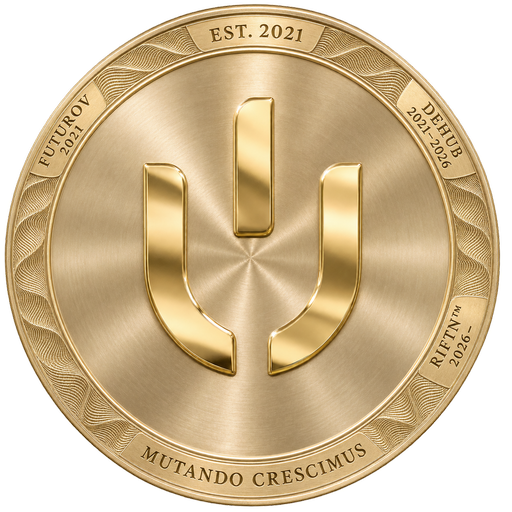
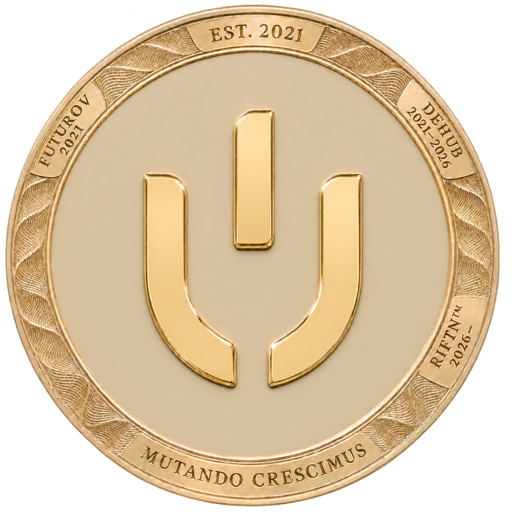
Smooth the gold coin face (#4185)

diff --git a/src/pages/app/DexPage.tsx b/src/pages/app/DexPage.tsx
@@ -3,6 +3,7 @@ import { DHB_SALES_PAUSED } from '@/lib/dhb-sales';
 import { TokenComingSoonPage } from '@/components/app/token-launch/TokenComingSoonPage';
 import { useSurfaceDraft } from '@/hooks/use-surface-draft';
 import { tokenLabel } from '@/lib/token-label';
+import { DhbCoin } from '@/components/app/DhbAmount';
 import { dexActionError } from '@/lib/dex/action-error';
 import { minuteCache, parseDehubMarket, isDehubPool, CANDLE_INTERVALS, type SharedMarket, type CandleInterval } from '@/lib/dex/live-market';
 import { useCallback, useEffect, useLayoutEffect, useMemo, useRef, useState, type CSSProperties } from 'react';
@@ -443,7 +444,7 @@ function DexPageMarket() {
           <div className="dex-available"><span>{t('dex.available')}</span><span>{checking ? t('dex.checking') : funded ? `${formatSize(Number(balance))}${fundingAsset && fundingAsset.symbol !== 'USDC' ? ` · ${fundingAsset.symbol}` : ''}` : `${formatSize(Number(balance))} ${tokenLabel(fundingToken)}`}</span></div>
           <div className="dex-fractions">{[25, 50, 75, 100].map((percent) => <button key={percent} type="button" disabled={checking || !chainId} onClick={() => { setAmount(balanceFraction(balance, percent, decimals)); setReview(null); setFundingQuote(null); }}>{percent === 100 ? t('dex.max') : `${percent}%`}</button>)}</div>
           <details className="dex-advanced"><summary>{t('dex.adjustRange')}</summary><p className="dex-help">{t('dex.rangeHint')}</p>{[{ label: t('dex.lowerPrice'), value: minPrice, set: setMinPrice }, { label: t('dex.upperPrice'), value: maxPrice, set: setMaxPrice }].map((field) => <label className="dex-field" key={field.label}>{field.label}<div className="dex-input"><input aria-label={field.label} inputMode="decimal" value={field.value} onChange={(e) => { field.set(decimalInput(e.target.value)); priceTouched.current = true; setReview(null); }} /><span>USD</span></div></label>)}</details>
-          <dl><dt>{t('dex.estimated')}</dt><dd>{formatSize(estimate)} {side === 'buy' ? tokenLabel() : 'USDC'}</dd><dt>{t('dex.network')}</dt><dd>{venueName}</dd><dt>{t('dex.lpFeeLabel')}</dt><dd>0%</dd></dl>
+          <dl><dt>{t('dex.estimated')}</dt><dd>{formatSize(estimate)} {side === 'buy' ? <DhbCoin /> : 'USDC'}</dd><dt>{t('dex.network')}</dt><dd>{venueName}</dd><dt>{t('dex.lpFeeLabel')}</dt><dd>0%</dd></dl>
         </fieldset>
         {side === 'buy' && bnbHeld && !pending && <div role="status" className="dex-alert dex-warning">{t('dex.convertBnbNote')}<button type="button" disabled={busy} onClick={() => setConvertOpen(true)}>{t('dex.convertBnb')}</button></div>}
         {balanceError && <div className="dex-alert">{balanceError}<button onClick={() => setBalanceRevision((n) => n + 1)} disabled={busy}>{t('dex.retry')}</button></div>}
@@ -456,7 +457,7 @@ function DexPageMarket() {
       </section>
     </div>
     <section className="dex-positions"><div className="dex-panel-head"><div role="tablist" aria-label={t('dex.positionOwnership')} className="dex-tabs"><button role="tab" aria-selected={!mine} onClick={() => { setMine(false); setPage(0); }}>{t('dex.allPositions')} <span className="dex-muted">{venuePositions.length}</span></button><button role="tab" aria-selected={mine} onClick={() => { setMine(true); setPage(0); }}>{t('dex.myPositions')}</button></div><span className="dex-muted">{venueName}</span></div>
-      {!shown.length ? <div className="dex-empty">{loading ? t('dex.verifying') : mine ? t('dex.noMyPositions') : t('dex.noPositions', { chain: venueName })}</div> : <div className="dex-table-scroll"><table className="dex-table"><thead><tr><th>{t('dex.position')}</th><th>{t('dex.priceRange')}</th><th>{t('dex.currentHoldings')}</th><th>{t('dex.state')}</th><th>{t('dex.networkColumn')}</th><th /></tr></thead><tbody>{visiblePositions.map((item) => { const fill = fillFraction(item) * 100; return <tr key={`${item.chain_id}:${item.token_id}`}><td className={item.side === 'buy' ? 'dex-buy' : 'dex-sell'}>{t(item.side === 'buy' ? 'dex.buy' : 'dex.sell')}<small>#{item.token_id}</small></td><td>{formatPrice(item.minPrice)} – {formatPrice(item.maxPrice)}<small>{t('dex.lpFeeValue', { fee: item.poolFee / 10000 })}</small></td><td>{formatSize(item.amountDhb)} {tokenLabel()}<small>{formatSize(item.amountUsdc)} USDC</small></td><td>{item.status === 'Filled' ? t('dex.ready') : item.status === 'In range' ? <>{t('dex.converting')} <span className="dex-muted">{fill < 1 ? '<1' : Math.round(fill)}%</span><i className="dex-fill" style={{ '--fill': `${fill}%` } as CSSProperties} /></> : t('dex.waiting')}<small>{item.owner.slice(0, 6)}…{item.owner.slice(-4)}</small></td><td>{DEX_CHAINS[item.chain_id as DexChainId].name}</td><td>{walletAddress?.toLowerCase() === item.owner.toLowerCase() ? <button disabled={busy || !!withdrawing} onClick={() => void handleWithdraw(item)}>{withdrawing === `${item.chain_id}:${item.token_id}` ? t('dex.withdrawing') : t('dex.withdraw')}</button> : <a href={`${DEX_CHAINS[item.chain_id as DexChainId].explorer}/tx/${item.mint_tx_hash}`} target="_blank" rel="noreferrer" aria-label={t('dex.viewPosition', { id: item.token_id })}><ExternalLink size={14} /></a>}</td></tr>; })}</tbody></table></div>}
+      {!shown.length ? <div className="dex-empty">{loading ? t('dex.verifying') : mine ? t('dex.noMyPositions') : t('dex.noPositions', { chain: venueName })}</div> : <div className="dex-table-scroll"><table className="dex-table"><thead><tr><th>{t('dex.position')}</th><th>{t('dex.priceRange')}</th><th>{t('dex.currentHoldings')}</th><th>{t('dex.state')}</th><th>{t('dex.networkColumn')}</th><th /></tr></thead><tbody>{visiblePositions.map((item) => { const fill = fillFraction(item) * 100; return <tr key={`${item.chain_id}:${item.token_id}`}><td className={item.side === 'buy' ? 'dex-buy' : 'dex-sell'}>{t(item.side === 'buy' ? 'dex.buy' : 'dex.sell')}<small>#{item.token_id}</small></td><td>{formatPrice(item.minPrice)} – {formatPrice(item.maxPrice)}<small>{t('dex.lpFeeValue', { fee: item.poolFee / 10000 })}</small></td><td>{formatSize(item.amountDhb)} <DhbCoin /><small>{formatSize(item.amountUsdc)} USDC</small></td><td>{item.status === 'Filled' ? t('dex.ready') : item.status === 'In range' ? <>{t('dex.converting')} <span className="dex-muted">{fill < 1 ? '<1' : Math.round(fill)}%</span><i className="dex-fill" style={{ '--fill': `${fill}%` } as CSSProperties} /></> : t('dex.waiting')}<small>{item.owner.slice(0, 6)}…{item.owner.slice(-4)}</small></td><td>{DEX_CHAINS[item.chain_id as DexChainId].name}</td><td>{walletAddress?.toLowerCase() === item.owner.toLowerCase() ? <button disabled={busy || !!withdrawing} onClick={() => void handleWithdraw(item)}>{withdrawing === `${item.chain_id}:${item.token_id}` ? t('dex.withdrawing') : t('dex.withdraw')}</button> : <a href={`${DEX_CHAINS[item.chain_id as DexChainId].explorer}/tx/${item.mint_tx_hash}`} target="_blank" rel="noreferrer" aria-label={t('dex.viewPosition', { id: item.token_id })}><ExternalLink size={14} /></a>}</td></tr>; })}</tbody></table></div>}
       {shown.length > PAGE_SIZE && <div className="dex-pagination"><button disabled={!page} onClick={() => setPage((n) => n - 1)}>{t('dex.previous')}</button><span>{page + 1} / {Math.ceil(shown.length / PAGE_SIZE)}</span><button disabled={(page + 1) * PAGE_SIZE >= shown.length} onClick={() => setPage((n) => n + 1)}>{t('dex.next')}</button></div>}
     </section>
     <CrossChainDepositDrawer open={convertOpen} onOpenChange={(open) => { setConvertOpen(open); if (!open) setBalanceRevision((n) => n + 1); }}

diff --git a/src/components/app/dex/MarketChart.tsx b/src/components/app/dex/MarketChart.tsx
@@ -1,5 +1,6 @@
 import { useState } from 'react';
 import { useTranslation } from 'react-i18next';
+import { DhbCoin } from '@/components/app/DhbAmount';
 import { formatPrice, formatSize, type BookLevel } from '@/lib/dex/orderbook';
 import type { Candle } from '@/lib/dex/live-market';
 
@@ -35,7 +36,7 @@ export function MarketChart({ candles, bids, asks, depth, symbol = 'DHB' }: { ca
     return { path, fill: values.length ? `${path}L${x(values.at(-1)!.x)},270L${x(values[0].x)},270Z` : '' };
   };
   return <div className="dex-chart" role="img" aria-label={depth ? t('dex.chart.depthLabel') : t('dex.chart.priceLabel', { symbol })}>
-    <div className="dex-chart-readout">{cursor ? <><b>{selected ? `O ${formatPrice(selected.open)} H ${formatPrice(selected.high)} L ${formatPrice(selected.low)} C ${formatPrice(selected.close)}` : `${formatSize(cursor.y)} ${symbol}`}</b><span>{depth ? `$${formatPrice(cursor.x)}` : new Date(cursor.x * 1000).toLocaleString()}</span></> : <span>{depth ? t('dex.chart.depthHint', { symbol }) : t('dex.chart.priceHint', { symbol })}</span>}</div>
+    <div className="dex-chart-readout">{cursor ? <><b>{selected ? `O ${formatPrice(selected.open)} H ${formatPrice(selected.high)} L ${formatPrice(selected.low)} C ${formatPrice(selected.close)}` : <>{formatSize(cursor.y)} {symbol === 'DHB' ? <DhbCoin /> : symbol}</>}</b><span>{depth ? `$${formatPrice(cursor.x)}` : new Date(cursor.x * 1000).toLocaleString()}</span></> : <span>{depth ? t('dex.chart.depthHint', { symbol }) : t('dex.chart.priceHint', { symbol })}</span>}</div>
     <svg viewBox="0 0 730 310" onPointerLeave={() => setHover(null)} onPointerMove={(event) => {
       const rect = event.currentTarget.getBoundingClientRect(); setHover((event.clientX - rect.left) / rect.width * 730);
     }}>

diff --git a/src/components/app/TickerLogo.tsx b/src/components/app/TickerLogo.tsx
@@ -30,6 +30,7 @@ const KNOWN_LOGOS: Record<string, string> = {
   USDC: 'https://coin-images.coingecko.com/coins/images/6319/large/usdc.png',
   DHB: dhbCoinIcon,
   DEHUB: dhbCoinIcon,
+  RIFTN: dhbCoinIcon,
 };
 
 /** Stock/ETF symbol → company domain for Clearbit logo fallback */
